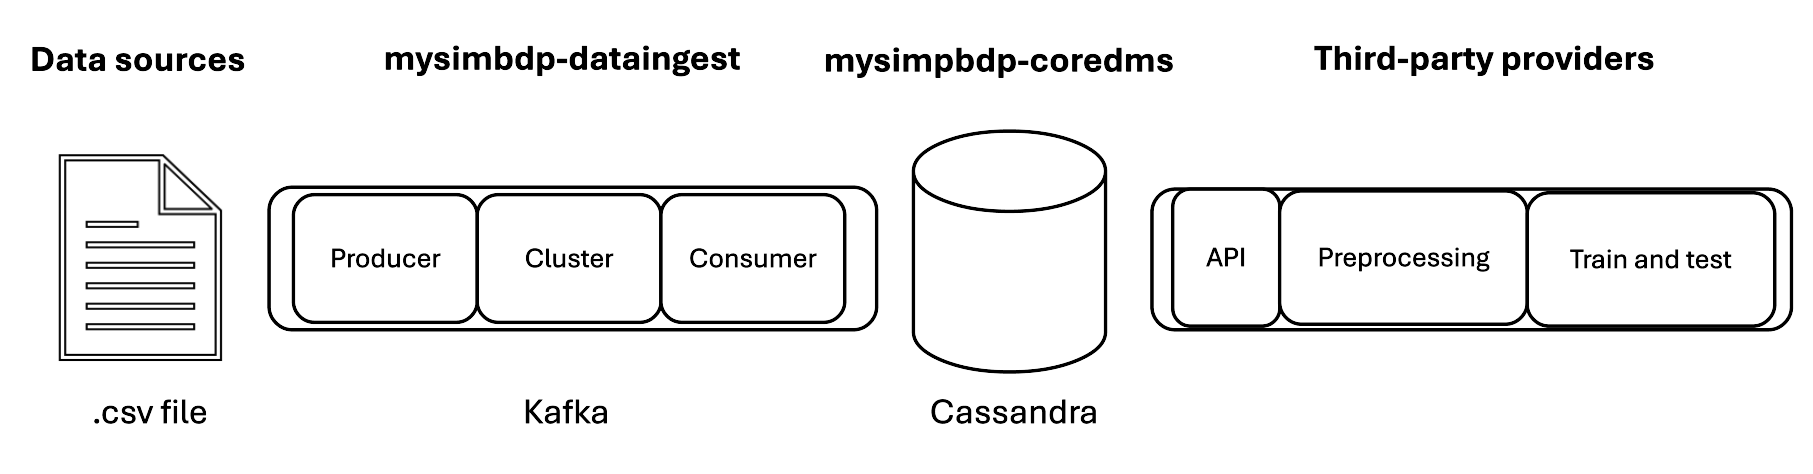
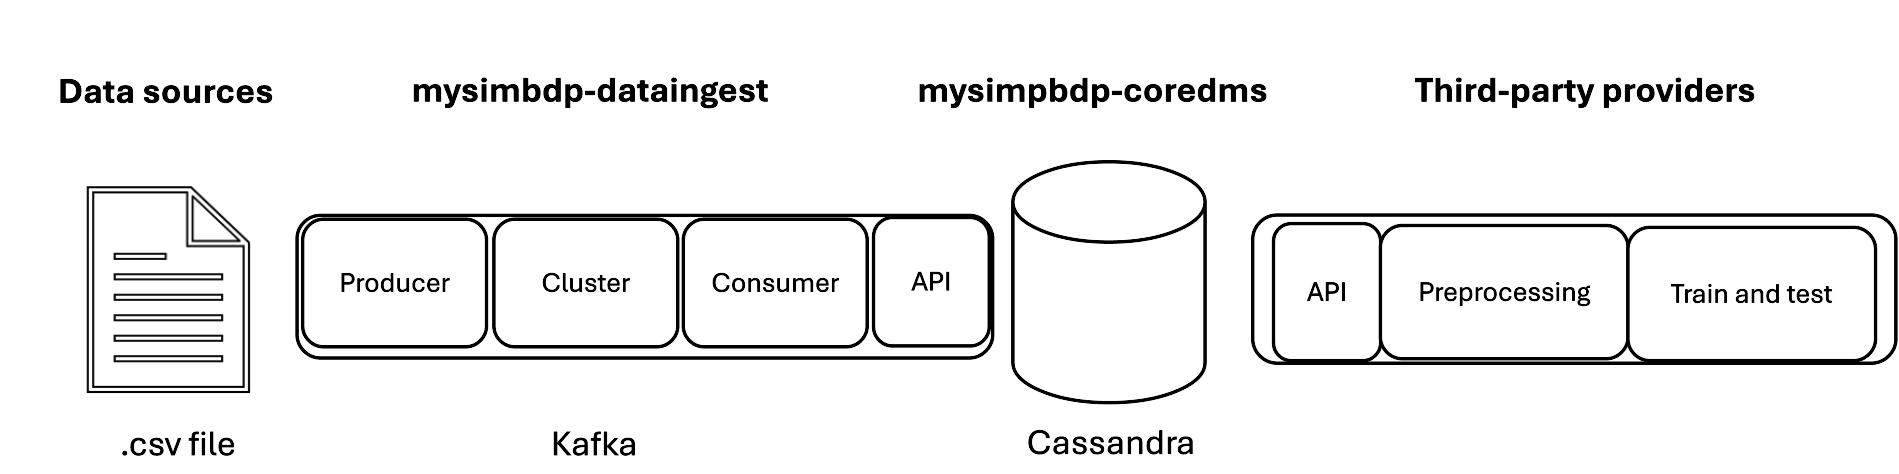
Design part

diff --git a/reports/Assignment-1-Report.md b/reports/Assignment-1-Report.md
@@ -1,24 +1,50 @@
 # Report for Assignment 1 
-[comment]: <> (Point 1)
+
+## Design
+
+### Application domain and dataset 
 Machine learning, and especially deep learning models, have proven to be helpful in many domains, such as cybersecurity. As an example, network security can be improved with the use of intrusion detection systems. These can be developed using DL models trained with expected and malicious traffic. The UNSW-NB15 dataset provides exactly this type of data. 
 
-[comment]: <> (Specify generic data types)
 More specifically, the UNSW-NB15 dataset includes 49 different features extracted from raw network packages. Some of these features are categorical, such as the protocol used, some are binary, such as is_ftp_login (ftp login access with password or not), and the rest are numerical features. As for the labels, we have if a certain sample is expected or malicious traffic in binary form and also categorical, as each sample is classified based on the type of attack that they were being a part from (or if they were normal traffic). For more information about the data types, check Reference 1. At first, the data extracted has the form of `.pcap` files. Then, the `.csv` files are obtained with a combination of algorithms and tools partially disclosed by the authors of the dataset.
 
 The idea is to develop a platform that ingests and stores data that can be later used for training models that classify the nature of network traffic. As the training of DL models is improved by large amounts of data, the platform should be prepared to handle the storing of thousands of entries, and this size could only increase even more. 
 
-[comment]: <> (Point 2)
+### **mysimbdp** architecture
 The architecture used for this platform is the following: 
 
 ![Architecture image](Architecture.png "Main architecture for the platform")
  
-It contemplates the use of Kafka for the ingestion of data, using a Kafka producer. From the development, one .csv file is 
+It contemplates the use of Apache Kafka for the **mysimbdp-dataingest**, using a Kafka producer and consumer to ingest and extract the data. The original UNSW-NB15 dataset provides all data separated into 4 main `.csv` files. In the development, one of the partitions is used to experience the operations in the data pipeline, which is the file `UNSW-NB15_4.csv`. Then, an API is used to save the data to Apache Cassandra, which works as **mysimbdp-coredms**. 
 
-As for the technologies used for **mysimbdp-coredms**, Apache Cassandra is used. The reason for this is because it provides better support for ML platforms. 
-[comment]: <> (Pros: If dataset increases a lot, horizontal scaling is supported. Complex queries are not needed as ML models benefit from data. Preprocessing can be done after. )
+The reason why Cassandra is used is because it has very good properties for supporting ML platforms. Firstly,  if the dataset increases its size significantly, Cassandra supports horizontal scaling. Then, the maintenance cost and overhead is low. Also, processing data (read or write) works fast. There are many ML platform projects that use Cassandra nowadays, which reinforces this decision. 
+
+Once the data is stored, the rest of the architecture is contemplated to be an implementation of third-party providers. This includes an optional API to get the data, which can be pictured as a way to get randomized sets of data for training and testing purposes (not necessarily one for training and one for testing as Federated Learning demands the training of models in distributed nodes without sharing datasets). Then, preprocessing is performed and finally models are developed. 
+
+### **mysimbdp-coredms** configuration 
+
+By using Cassandra as the **mysimbdp-coredms** it is possible to configure it so that there are multiple nodes within a cluster that provide protection to having a single-point-of-failure problem. Considering our architecture, **mysimbdp-coredms** configuration contains 3 separate nodes within the cluster using SimpleStrategy, which is the replication strategy used when having a single location. This means that when a node fails, there is still more than one node that can take over automatically.  
+
+### Data replication 
+
+For data replication within **mysimbdp-coredms**, considering we have established the existance of 3 different nodes to prevent a single-point-of-failure problem, the idea is to provide data replication in all of the existing nodes. So, we have Replication Factor = 2.  
+
+Apache Kafka also provides the option to replicate data being ingested at topic level by using more than one broker in a cluster. In this platform, it is assumed that data replication should be able to handle one broker failing. For this reason, Replication Factor = 2 is considered, meaning we use 3 brokers in a cluster. One of them is the leader, which performs all read and write operations. Then, it is important to use In-Sync Replicas to ensure that the other brokers which are not leaders synchronize with the changes done in the leader. If the leader fails, we would still have two brokers, one of which would be the new leader.
+
+### Deployment of **mysimbdp-dataingest**
+
+From current observations, we know that the tenant data sources are stored in a cloud folder. It is also assumed that new `.csv` files are uploaded with low frequency, as attack simulations and the transformation of `.pcap` to `.csv` files require time. For this reason, the deployment of **mysimbdp-dataingest** is triggered by the addition of a new `.csv`file in the cloud folder. To do that automatically, Python for instance has a library called `watchdog` that allows to track changes in a directory and trigger another function in the case the new changes correspond to new files of the wanted type. This means as well that the deployment needs to be defined close to the data. 
+
+The advantages of this method are that it is done automatically and it is simple to implement and maintain. 
+The main downside of this approach is that if the upload frequency increases significantly, adding new files per second, perhaps not all changes would be tracked. If using cloud, event-based triggers supported by the cloud could be used. 
+
+
+# Implementation 
 
 
 
-## References
+
+# Extention 
+
+# References
 
 [1] Hamid, Yasir & Ranganathan, Balasaraswathi & Journaux, Ludovic & Muthukumarasamy, Sugumaran. (2018). Benchmark Datasets for Network Intrusion Detection: A Review. International Journal of Network Security. 10.6633/IJNS.2018xx.20(x).xx). 
